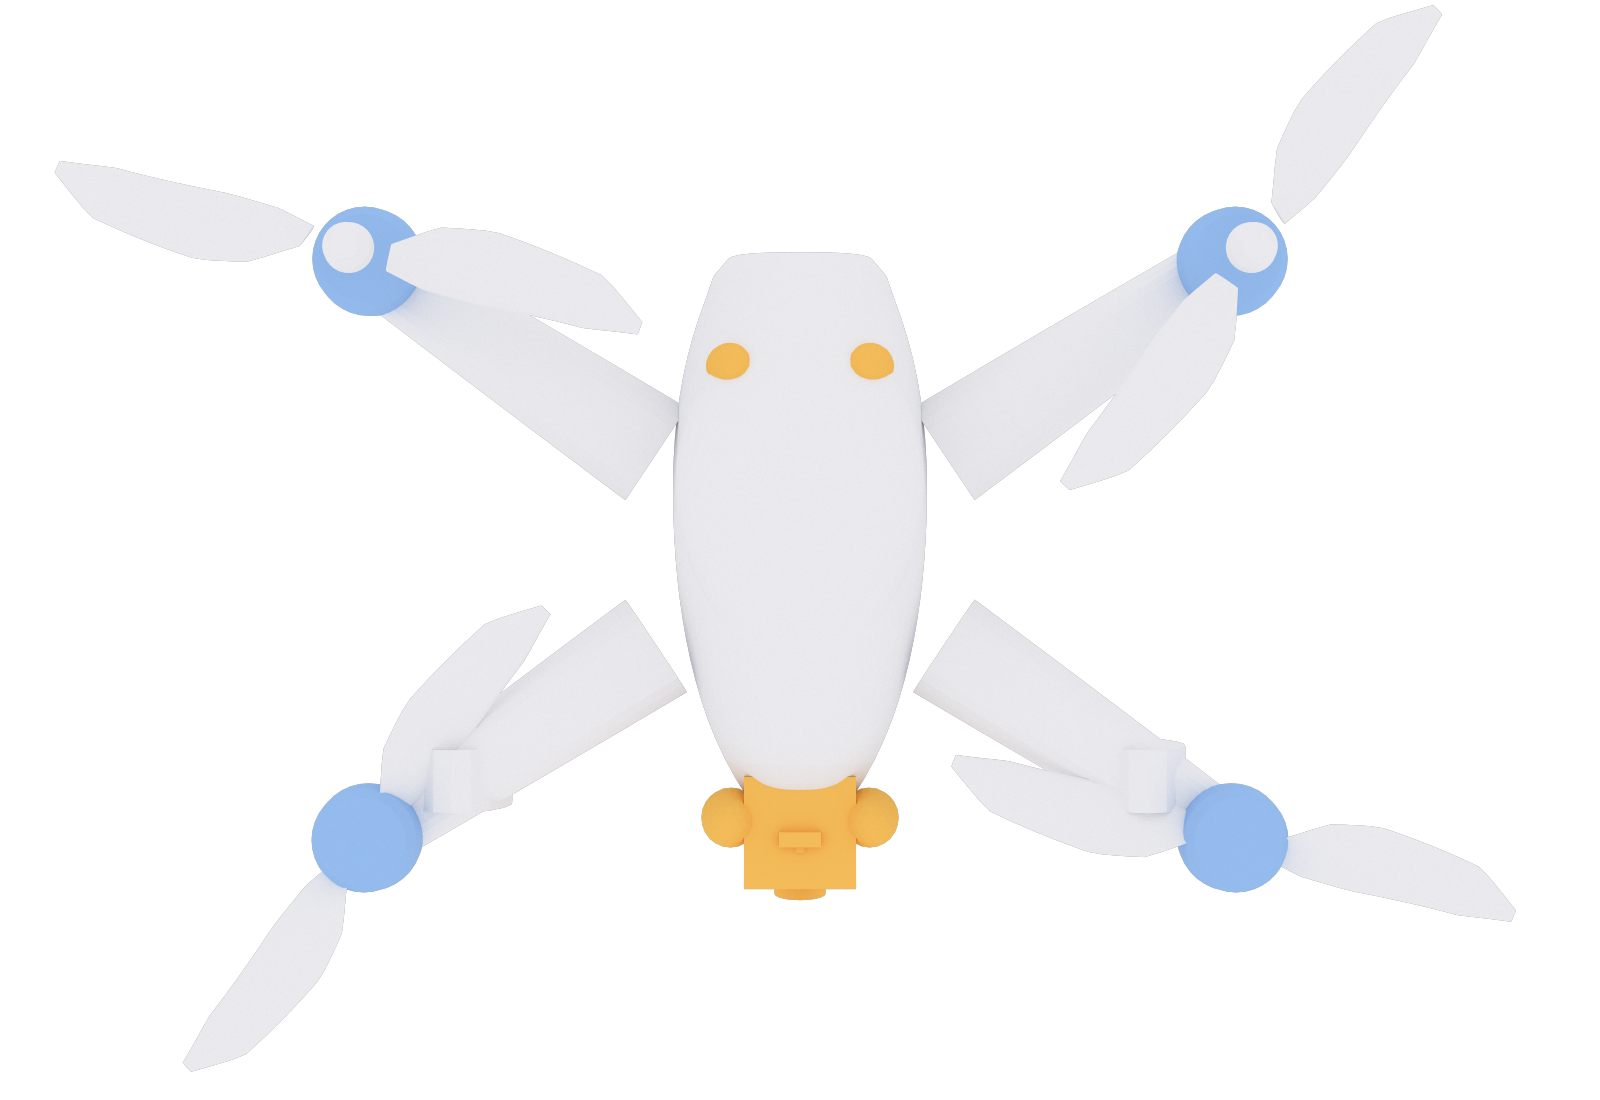
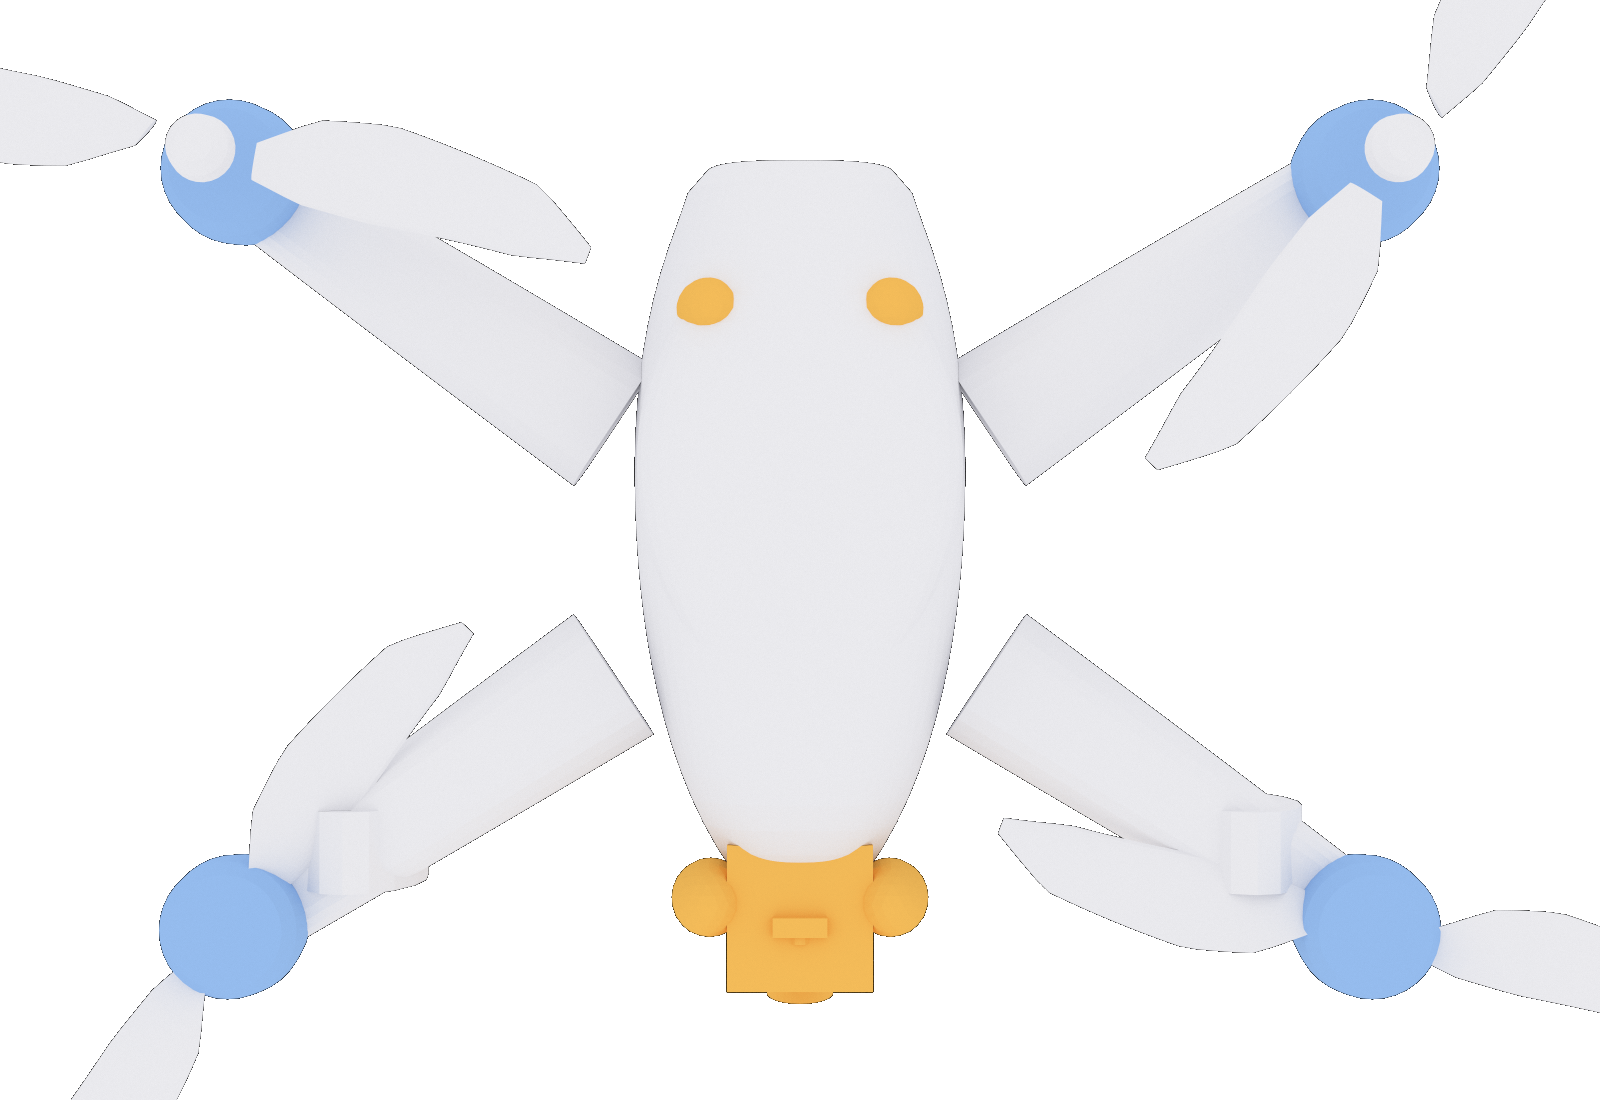
report02 §3 드론 갤러리 개선 — 정면뷰 추가·프레이밍 조임·흰배경 통일
- 드론 3-뷰 갤러리(iso/side/top)에 실사진 정합 정면뷰 추가 → 4-뷰(정면/비스듬/옆/위).
- 렌더 프레이밍 조임(r=span×1.45→1.12, 여백 최소) — 드론이 패널에 꽉 차게.
- 검정 배경 렌더를 흰 배경으로 합성(밝기 알파)해 리포트(흰 배경)와 정합.
  render_gallery 에 _whiten 영구 내장 → 향후 재렌더도 흰 배경 유지(자기일관).

diff --git a/src/viz_report1.py b/src/viz_report1.py
@@ -572,8 +572,22 @@ def fig_meshcheck(mm: dict):
     return _save(fig, "report1_meshcheck.png")
 
 
+def _whiten(relpath):
+    """검정 배경 렌더를 흰 배경으로 제자리 합성(밝기 알파). 리포트(흰 배경)와 정합."""
+    from PIL import Image
+    p = os.path.join(ROOT, relpath)
+    im = np.asarray(Image.open(p).convert("RGB"), float) / 255.0
+    lum = 0.299 * im[..., 0] + 0.587 * im[..., 1] + 0.114 * im[..., 2]
+    if np.mean([lum[0, 0], lum[0, -1], lum[-1, 0], lum[-1, -1]]) > 0.6:
+        return relpath                                          # 이미 흰 배경
+    a = np.clip((lum - 0.025) / 0.14, 0, 1)
+    comp = im * a[..., None] + (1 - a[..., None])
+    Image.fromarray((np.clip(comp, 0, 1) * 255).astype("uint8")).save(p)
+    return relpath
+
+
 def render_gallery():
-    """Sionna 렌더 갤러리 — 5종 x (iso / side / top). side 뷰에 짐벌·다리·높이가 보인다."""
+    """Sionna 렌더 갤러리 — 5종 x (front / iso / side / top). front 는 실사진 각도 정합."""
     import render_rt as R
     from drones import DRONES, build_drone
     out = {}
@@ -581,12 +595,14 @@ def render_gallery():
         sc = R.make_scene(drone=key, tgt=(0.0, 0.0, 0.0), with_chamber=False, vel=None)
         V = np.asarray(build_drone(DRONES[key]).v, float)
         span = float(np.linalg.norm(V.max(0) - V.min(0)))
-        r = span * 1.45
-        for tag, p in (("iso", (r * 0.78, -r * 0.64, r * 0.36)),
+        r = span * 1.12                                          # 여백 최소(꽉 차게)
+        for tag, p in (("front", (r * 0.98, -r * 0.14, r * 0.20)),  # 정면 — 실사진 각도 정합(기수 짐벌/센서)
+                       ("iso", (r * 0.74, -r * 0.60, r * 0.34)),
                        ("side", (0.0, -r, 0.02 * span)),
                        ("top", (0.01 * span, 0.0, r))):
-            out[f"{key}_{tag}"] = _shot(sc, f"r1_30_drone_{key}_{tag}", R.cam(p, look=(0, 0, 0)),
-                                        res=RES, spp=SPP, fov=35.0)
+            rp = _shot(sc, f"r1_30_drone_{key}_{tag}", R.cam(p, look=(0, 0, 0)),
+                       res=RES, spp=SPP, fov=35.0)
+            out[f"{key}_{tag}"] = _whiten(rp)                   # 흰 배경 합성(리포트 정합)
     return out
 
 

diff --git a/src/make_notebook02.py b/src/make_notebook02.py
@@ -333,15 +333,16 @@ SPIN_GIFS = {
 
 for k in ORDER:
     v = DR[k]
+    front = R.get(f"drone_{k}_front", R[f"drone_{k}_iso"])
     iso = R[f"drone_{k}_iso"]
     side = R[f"drone_{k}_side"]
     top = R[f"drone_{k}_top"]
     cells.append(md(
         f"**{v['name']}**",
         "",
-        "| 비스듬히 | 옆 | 위 |",
-        "|---|---|---|",
-        f"| ![{k} iso]({iso}) | ![{k} side]({side}) | ![{k} top]({top}) |",
+        "| 정면 | 비스듬히 | 옆 | 위 |",
+        "|---|---|---|---|",
+        f"| ![{k} front]({front}) | ![{k} iso]({iso}) | ![{k} side]({side}) | ![{k} top]({top}) |",
     ))
     if k in SPIN_GIFS:
         gif, cap = SPIN_GIFS[k]
